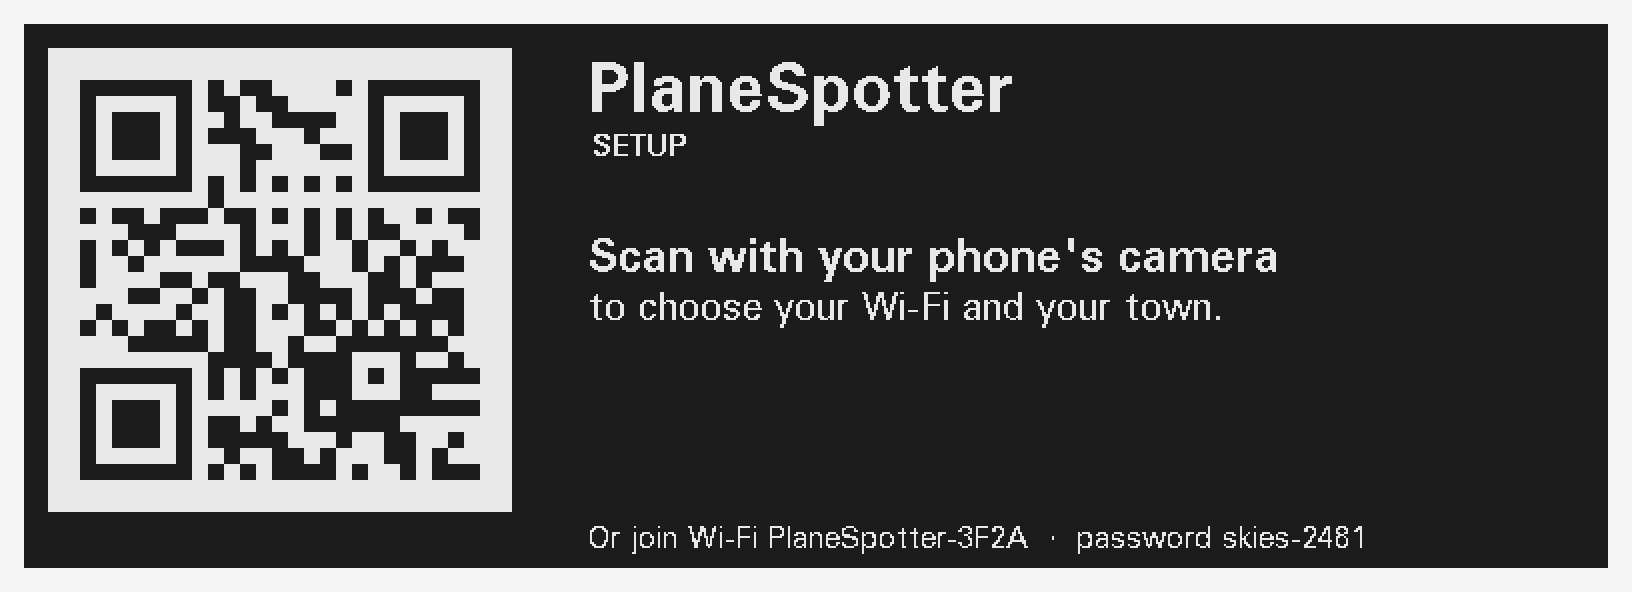
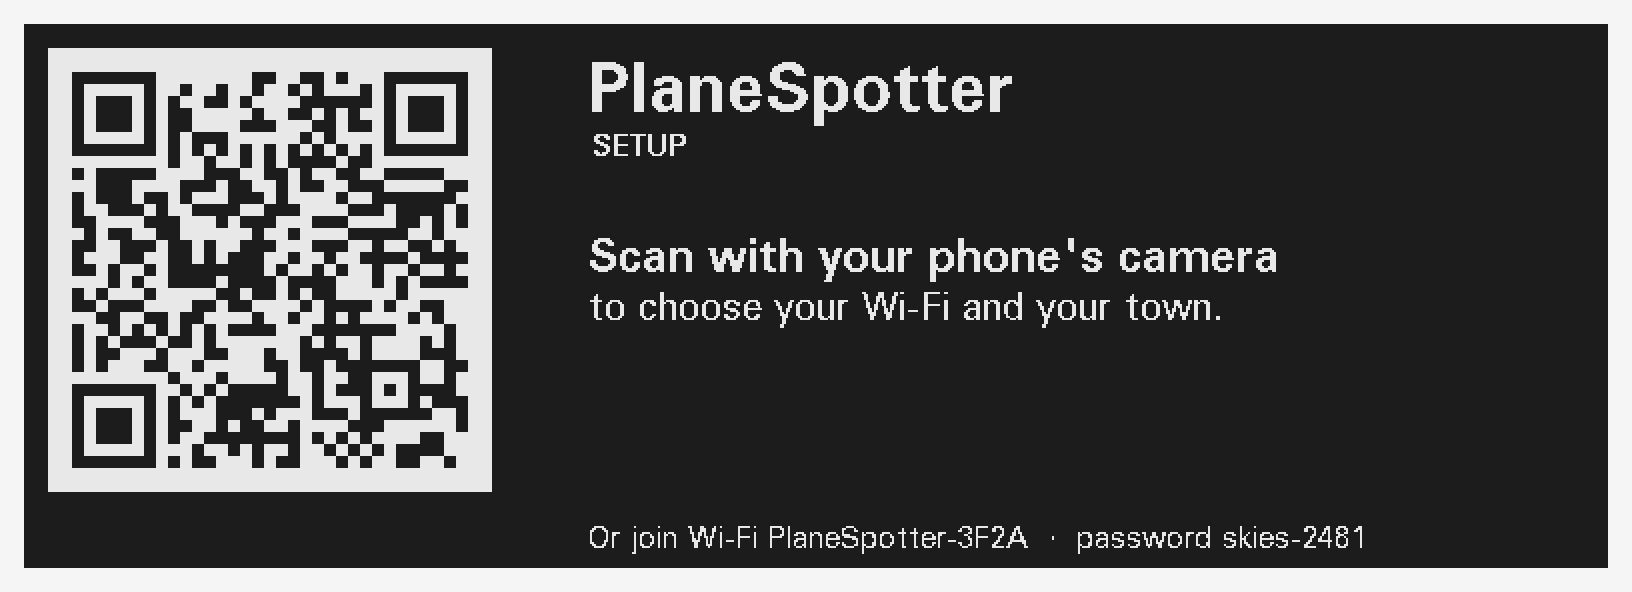
Fix the unreadable setup QR code and the PlaneSpotter-0000 network name
The QRCode library never reports data that doesn't fit, so the setup code was
always drawn at version 2, too small for the Wi-Fi payload, and no phone could
read it. The smallest version that fits is now worked out before drawing.
The access point name read the MAC before Wi-Fi had started and got zeros;
it now comes from eFuse. Version 1.0.2.

Changed region(s): [[0.0312, 0.0608, 0.3125, 0.8818]]

diff --git a/src/ui/screens.cpp b/src/ui/screens.cpp
@@ -201,8 +201,22 @@ void triangleUpDown(Canvas& cv, int x, int y, bool up, int size) {
   else cv.g.fillTriangle(x, y + size, x - size, y - size / 2, x + size, y - size / 2, gInk);
 }
 
+// Data codewords per version at ECC level M (ISO 18004 table 7), versions 1-10.
+// The QRCode library never reports data that doesn't fit (it just writes a broken
+// code), so the smallest version that holds the payload is picked here.
+uint8_t qrVersionFor(size_t len) {
+  static const uint8_t kDataBytesM[] = {16, 28, 44, 64, 86, 108, 124, 154, 182, 216};
+  for (uint8_t v = 1; v <= 10; v++) {
+    const size_t countBits = v < 10 ? 8 : 16;  // byte-mode character count field
+    if (4 + countBits + 8 * len <= 8u * kDataBytesM[v - 1]) return v;
+  }
+  return 0;  // too long
+}
+
 void drawQr(Canvas& cv, int x, int y, int maxSize, const char* payload) {
-  for (uint8_t version = 2; version <= 10; version++) {
+  const uint8_t first = qrVersionFor(std::strlen(payload));
+  if (first == 0) return;
+  for (uint8_t version = first; version <= 10; version++) {
     QRCode qr;
     uint8_t buf[400];
     if (qrcode_getBufferSize(version) > sizeof(buf)) break;

diff --git a/src/main.cpp b/src/main.cpp
@@ -5,6 +5,7 @@
 //     prediction, OTA. Writes into `gShared` under `gLock`.
 //   - Arduino loop (core 1): button, web server, Wi-Fi provisioning, choosing
 //     what to show and drawing it.
+#include <esp_mac.h>
 #include <Arduino.h>
 #include <HTTPClient.h>
 #include <Preferences.h>
@@ -306,7 +307,7 @@ void connectSaved() {
 void openPortal(bool settingsMode) {
   if (gPortalOpen) return;
   uint8_t mac[6];
-  WiFi.macAddress(mac);
+  esp_read_mac(mac, ESP_MAC_WIFI_SOFTAP);  // from eFuse: valid even before Wi-Fi has started
   snprintf(gApSsid, sizeof(gApSsid), AP_SSID_PREFIX "%02X%02X", mac[4], mac[5]);
   static const char* words[] = {"skies", "radar", "orbit", "cloud", "wings", "comet"};
   snprintf(gApPass, sizeof(gApPass), "%s-%04u", words[esp_random() % 6], static_cast<unsigned>(esp_random() % 10000));
